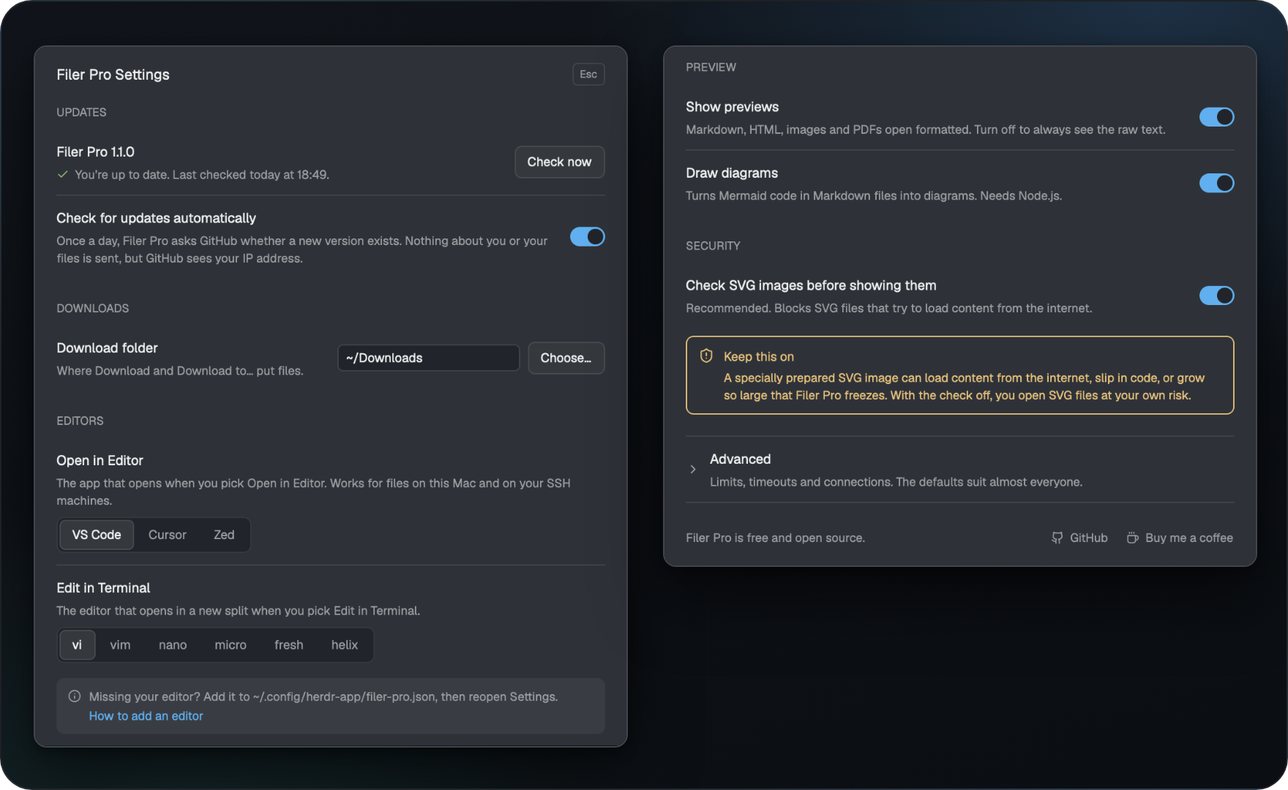
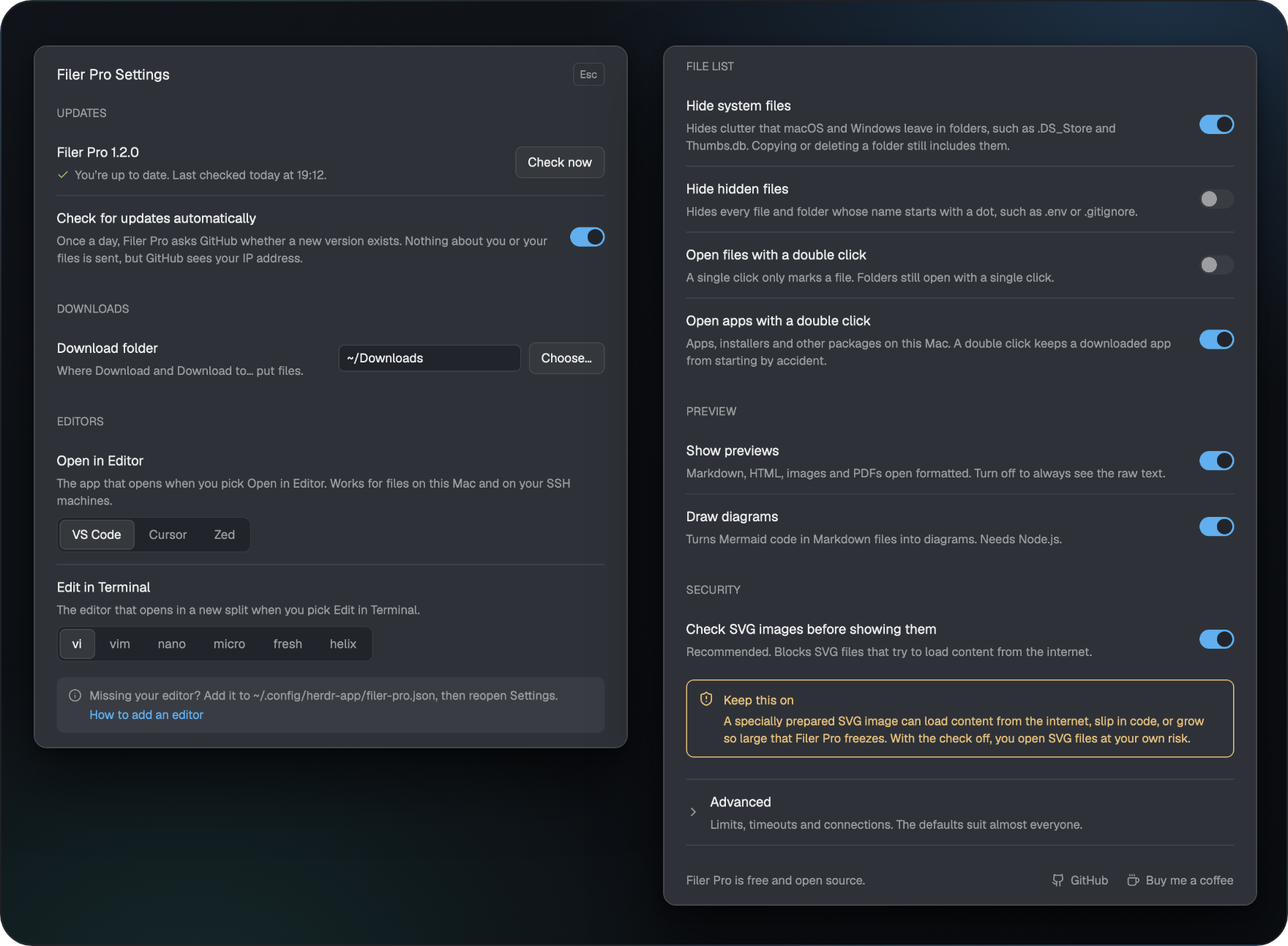
chore: release 1.2.0 (#26)
Bump mods/filer-pro/mod.json and test/clone.test.js to 1.2.0 and move
the "newer release" examples in RECIPE.md to 1.3.0.

README:
- Feature texts for macOS packages (shown as files, double click starts
  them, Show Package Contents), hiding system and hidden files, and the
  one or two click choice.
- Settings dialog paragraph names the four File list switches and the
  Advanced groups File list limits, Preview limits and Transfers &
  connections.
- Settings table in dialog order with a new "In Settings" column (section
  and label from lib/settings.js), units on every range, and the ssh_*
  rows now say they apply to transfers and previews.
- The SSH note no longer claims the preview copies images with fixed
  defaults; since the SSH settings fix it uses the ssh_* settings too.
- New alt text for the settings image.

RECIPE: File list lists all four switches and the locked Hide system
files switch; the config list names the new switches; the fixed limits
no longer mention a fixed SSH copy for the image cache.

screenshots/settings.png: new card with File list (all four switches),
Preview, Security, the closed Advanced row and the footer; the card is
now 880 x 646.

diff --git a/scripts/screenshots/cards/settings.html b/scripts/screenshots/cards/settings.html
@@ -2,8 +2,9 @@
 <html lang="en"><head><meta charset="utf-8"><title>Settings card</title>
 <link rel="stylesheet" href="card.css">
 <style>
-/* layout: the settings dialog in two parts, top (Updates, Downloads, Editors) left, the rest (Preview, Security) right */
-html, body { width: 880px; height: 540px; }
+/* layout: the settings dialog in two parts, top (Updates, Downloads, Editors) left, the rest (File list, Preview, Security,
+   the closed Advanced row and the footer) right */
+html, body { width: 880px; height: 646px; }
 .shot.cut.dlg { border-color: #42454b; }
 .top { left: 22px; top: 30px; width: 406px; height: 480px; }
 .bottom { left: 452px; top: 30px; width: 406px; }

diff --git a/test/clone.test.js b/test/clone.test.js
@@ -8,7 +8,7 @@ const read = (p) => fs.readFileSync(new URL(`../mods/filer-pro/${p}`, import.met
 test("mod.json keeps place none and its origin, and carries the mod's own version", () => {
   assert.deepEqual(JSON.parse(read("mod.json")), {
     place: "none",
-    version: "1.1.0",
+    version: "1.2.0",
     cloned_from: { name: "files", version: "0.1.12" },
   });
 });

diff --git a/RECIPE.md b/RECIPE.md
@@ -12,7 +12,7 @@ All colors are `theme()` tokens, so the mod follows the person's theme.
 
 **Panel** (block `filer-pro`, first child of `panel` > `panel-body`), top to bottom:
 
-1. **Header**, 42px, `px(14)`, gap 8, `border_b(1)` `t.border`. Left: `←` (20px wide, `t.muted`, only while a file is open), then `Filer Pro` in semibold, then `● 1.2.0 available` in `t.ansi4` (header button style, only when a newer release exists; see Update check). Right-aligned: a 14px file type icon and the open file's relative path (or the shown folder's name), text 12, `t.dim`, truncated. While no file is open, a gear (`settings.svg`, 14px, `t.muted`) in a 24px hit area, radius 6, hover `bg(t.hover)`, tooltip `Settings`, opens the settings dialog. Then the header buttons for an open file: `Source` / `Preview` (names the view you switch to), `Open in browser` (local HTML only), `Previous`, `3 / 12`, `Next` (PDF), and the fullscreen button (13px `maximize.svg`). Each button: `px(7)`, `py(2)`, radius 6, text 11, `t.muted`, hover `bg(t.hover)`.
+1. **Header**, 42px, `px(14)`, gap 8, `border_b(1)` `t.border`. Left: `←` (20px wide, `t.muted`, only while a file is open), then `Filer Pro` in semibold, then `● 1.3.0 available` in `t.ansi4` (header button style, only when a newer release exists; see Update check). Right-aligned: a 14px file type icon and the open file's relative path (or the shown folder's name), text 12, `t.dim`, truncated. While no file is open, a gear (`settings.svg`, 14px, `t.muted`) in a 24px hit area, radius 6, hover `bg(t.hover)`, tooltip `Settings`, opens the settings dialog. Then the header buttons for an open file: `Source` / `Preview` (names the view you switch to), `Open in browser` (local HTML only), `Previous`, `3 / 12`, `Next` (PDF), and the fullscreen button (13px `maximize.svg`). Each button: `px(7)`, `py(2)`, radius 6, text 11, `t.muted`, hover `bg(t.hover)`.
 2. **Tree** (no file open), scrolls, `p(6)`. Rows 28px, radius 7, hover `bg(t.hover)`; the last opened file's row `bg(t.selected)` (hover still wins), left padding `8 + depth * 18`px, gap 7: a 12px chevron (`chevron-right.svg` / `chevron-down.svg`, `t.dim`) for folders or a 12px spacer, a 16px full-color file type icon (Material Icon Theme, light or dark variant from `settings().dark`, open-folder variant when expanded), the name (truncated), and on the right a git mark in text 11: `A` (`t.ansi2`), `M` (`t.blocked`), `D` and `U` (`t.ansi1`). Folders sort first, then by name. In a local tree on macOS a folder ending in `.app`, `.pkg` or `.rtfd` (any letter case, `BUNDLE_EXTENSIONS` in `lib/bundles.js`) is a package: a file row (spacer instead of chevron, the `exe` / `zip` / `word` icon), sorted among the files; while its contents are shown it is a folder row. `.xcodeproj`, `.framework` and other developer packages stay folders. Empty states in text 12 `t.dim`, `p(8)`: `Loading files…`, `No files`, `No folder`, or the error. Over `list_per_folder` entries in a folder (default 500) or `list_total` in total (default 5,000): `File list limited to 500 entries per folder and 5,000 total` with the configured numbers (text 11). Folders deeper than `tree_depth` (default 40) are not descended into.
 3. **Viewer** (file open, in the tree's place; the tree stays mounted at `h(0)`, `p(0)` with one spacer as high as its rows plus 12px, so it keeps its scroll position and `←` returns to the same spot): a read-only editor with syntax colors and soft wrap, a Markdown or HTML text view, an image, or a PDF page. Notes like `Loading file…`, `Loading image…`, `Loading PDF…` in `t.dim`, `p(12)`.
 4. **Transfers bar**, only while jobs exist. `border_t(1)` `t.border`, height = sum of rows + 1, at most 220px, then it scrolls. Each row `px(10)`, `py(6)`, gap 3, oldest first:
@@ -28,7 +28,7 @@ The panel root: `rounded(10)`, `border_1()` `t.border`, `bg(t.background)`, text
 - **Menu**: popup at the pointer, 200px wide, height = 28 per entry + 7 per separator + 12. `p(4)`, `bg(t.background)`, text 13. Entries 28px, `px(10)`, radius 6, hover `bg(t.hover)`; unusable ones `t.dim` without hover. Row menu: `Open`, `Open in Preview`, `Open in Editor`, `Edit in Terminal`, `Show in Finder`, for a package also `Show Package Contents` (`Hide Package Contents` while shown) | `Download`, `Download to…` | `Copy`, `Cut`, `Paste` | `Copy Path`, `Copy Relative Path` | `New Folder…`, `Rename…`, `Delete…` (separators: 1px `t.border`, `my(3)`). Free area menu: `New Folder…`, `Paste` | `Settings…`.
 - **Question dialog**: modal, 440 × 240, `p(16)`, gap 12, `bg(t.background)`, text 13. Semibold title (`Already exists`, `Symlink found!`, `Could not check symlinks`, `Delete file?`, `Delete folder?`, `Another volume`), body in `t.muted`, for delete the path in text 11 `t.dim`, `☐ Apply to all (N)` when more than one item waits, buttons right-aligned: 30px, `px(14)`, radius 6, `border_1()` `t.border`, hover `bg(t.hover)`. The final remote `Delete` is `t.ansi1`.
 - **Name dialog** (`Rename`, `New Folder`): modal, 440 × 220, `p(18)`, gap 10, `bg(t.popover)`. Title 15 semibold with `Esc` (11, `t.dim`) at the right; a 32px input, radius 8, border `t.accent` when focused else `t.input`; a 16px error line in `t.ansi1`; buttons 32px, radius 8: `Cancel` (`bg(t.raised)`), primary (`Rename` / `Create`) `bg(t.solid)` with `t.solid_foreground`, dim and inert when the name is invalid or unchanged.
-- **Settings dialog**: modal, 620 wide, 0.86 of the window high, `bg(t.popover)`, no outer padding. Header `px(24)` `pt(18)` `pb(10)`: `Filer Pro Settings` 15 semibold, at the right an `Esc` badge (11, `t.muted`, border, radius 5). Body scrolls with an always visible `Scrollbar.vertical`, content `px(24)` `pt(4)` `pb(18)`. Section headings in capitals, 12 semibold `t.muted`, `pt(22)` (first 4) `pb(8)`. A row (Herdr's settings row): label 14 `t.foreground`, below it the help line 12.5 with 18px line height in `t.muted` (never beside the label), below that an error in `t.ansi1`; the control on the right; `py(12)`, `border_b(1)` except the last row of a section. Switches are Herdr's toggle (36×20, knob 16, `t.accent` / `t.hover`). Parts in this order: Updates (`Filer Pro <version>` with the status line: `✓ You’re up to date. Last checked today at 09:41.` / `Asking GitHub for the latest version…` / `● Version 1.2.0 is available.` / `Could not reach GitHub. Check your connection and try again.` (`t.ansi1`) / `Not checked yet.`, and on the right `Check now`, a spinning `loader-circle.svg` with `Checking…`, the accent button `What’s new in 1.2.0` with `external-link.svg`, or `Try again`; then the switch `update_check`), Downloads (field 190 wide and `Choose…`), Editors (`Open in Editor` and `Edit in Terminal` as segmented buttons in Herdr's appearancePicker style: shipped names, then valid own names of the config; then an info box `bg(t.hover)` with `info.svg`, `Missing your editor? Add it to <config path>, then reopen Settings.` and the link `How to add an editor` to the README), File list (the switches `double_click_files` and `double_click_apps`, independent, never dimmed), Preview (`preview`, `mermaid`; `mermaid` at opacity 0.45 and not clickable while `preview` is off), Security (`svg_check`, directly below it a box with `shield-exclamation-point.svg`, border and text `t.ansi3` with the title `Keep this on` while on, `t.ansi1` with `The SVG check is off` when off), the Advanced row (chevron right or down, `Limits, timeouts and connections. The defaults suit almost everyone.`, closed at first) with the groups `File list limits`, `Preview limits` (ending with `node_path`, placeholder `Automatic`) and `Transfers & connections` (number fields 84 wide, the unit in a 92 wide column, the help line ends with `Default <n>.`), and the footer `Filer Pro is free and open source.` with the links `GitHub` and `Buy me a coffee` (`github.svg`, `coffee.svg`, `cx.open_url`). Texts, labels and help lines are those of `lib/settings.js`. Fields: border `t.ansi1` when wrong, `t.accent` while focused, else `t.input`. Bottom bar `px(24)` `py(12)` `border_t(1)`: the save error (11.5, `t.ansi1`), `Cancel`, `Save` (primary, dim while the file is broken or saving).
+- **Settings dialog**: modal, 620 wide, 0.86 of the window high, `bg(t.popover)`, no outer padding. Header `px(24)` `pt(18)` `pb(10)`: `Filer Pro Settings` 15 semibold, at the right an `Esc` badge (11, `t.muted`, border, radius 5). Body scrolls with an always visible `Scrollbar.vertical`, content `px(24)` `pt(4)` `pb(18)`. Section headings in capitals, 12 semibold `t.muted`, `pt(22)` (first 4) `pb(8)`. A row (Herdr's settings row): label 14 `t.foreground`, below it the help line 12.5 with 18px line height in `t.muted` (never beside the label), below that an error in `t.ansi1`; the control on the right; `py(12)`, `border_b(1)` except the last row of a section. Switches are Herdr's toggle (36×20, knob 16, `t.accent` / `t.hover`). Parts in this order: Updates (`Filer Pro <version>` with the status line: `✓ You’re up to date. Last checked today at 09:41.` / `Asking GitHub for the latest version…` / `● Version 1.3.0 is available.` / `Could not reach GitHub. Check your connection and try again.` (`t.ansi1`) / `Not checked yet.`, and on the right `Check now`, a spinning `loader-circle.svg` with `Checking…`, the accent button `What’s new in 1.3.0` with `external-link.svg`, or `Try again`; then the switch `update_check`), Downloads (field 190 wide and `Choose…`), Editors (`Open in Editor` and `Edit in Terminal` as segmented buttons in Herdr's appearancePicker style: shipped names, then valid own names of the config; then an info box `bg(t.hover)` with `info.svg`, `Missing your editor? Add it to <config path>, then reopen Settings.` and the link `How to add an editor` to the README), File list (the switches `hide_system_files`, `hide_dotfiles`, `double_click_files` and `double_click_apps`; while `hide_dotfiles` is on, `hide_system_files` shows on at opacity 0.45 and is not clickable, its stored value kept; the two double click switches are independent and never dimmed), Preview (`preview`, `mermaid`; `mermaid` at opacity 0.45 and not clickable while `preview` is off), Security (`svg_check`, directly below it a box with `shield-exclamation-point.svg`, border and text `t.ansi3` with the title `Keep this on` while on, `t.ansi1` with `The SVG check is off` when off), the Advanced row (chevron right or down, `Limits, timeouts and connections. The defaults suit almost everyone.`, closed at first) with the groups `File list limits`, `Preview limits` (ending with `node_path`, placeholder `Automatic`) and `Transfers & connections` (number fields 84 wide, the unit in a 92 wide column, the help line ends with `Default <n>.`), and the footer `Filer Pro is free and open source.` with the links `GitHub` and `Buy me a coffee` (`github.svg`, `coffee.svg`, `cx.open_url`). Texts, labels and help lines are those of `lib/settings.js`. Fields: border `t.ansi1` when wrong, `t.accent` while focused, else `t.input`. Bottom bar `px(24)` `py(12)` `border_t(1)`: the save error (11.5, `t.ansi1`), `Cancel`, `Save` (primary, dim while the file is broken or saving).
 - **Fullscreen**: dialog at 0.86 × 0.9 of the window, a 42px header with icon, path, the same buttons and `✕`, then the same viewer.
 
 ## How it behaves
@@ -47,7 +47,7 @@ The mod shows no agent status (working, blocked, done, idle); it follows only th
 
 ## Built from
 
-Folder `mods/filer-pro/`, `mod.json` `{ "place": "none", "version": "1.1.0" }` (no `focusable`; `version` is the mod's own semver, read at runtime for the update check). No `keys.json`.
+Folder `mods/filer-pro/`, `mod.json` `{ "place": "none", "version": "1.2.0" }` (no `focusable`; `version` is the mod's own semver, read at runtime for the update check). No `keys.json`.
 
 - **One `View`, four roles by props:** no props: the panel; `{ button: true }`: the pill (it also adds `filer-pro` to shared `workspace.panels` with `setShared`, so the shipped `tabs` mod restores the panel per space, then only listens for `reveal`); `{ overlay, view: "menu" | "conflict" | "rename" | "mkdir" | "file" }`: the overlays, opened with `openOverlay({ mod: "filer-pro", ... })`.
 - **Layout blocks it needs** (the person's own layout; shipped layouts are cloned first): in a row `tab-bar` (42px): `{ "id": "filer-pro-button", "type": "block", "content": { "mod": "filer-pro", "props": { "button": true } }, "size": { "px": 96 }, "window_drag": true }`; in `panel` > `panel-body`, first: `{ "id": "filer-pro", "type": "block", "content": { "mod": "filer-pro" }, "size": { "weight": 1 }, "min": 120 }`.
@@ -57,7 +57,7 @@ Folder `mods/filer-pro/`, `mod.json` `{ "place": "none", "version": "1.1.0" }` (
 - **Files:** `main.js`; `ui/` (`bar.js`, `menu.js`, `conflict.js`, `namedialog.js`, `settings.js`); `lib/` (pure logic: jobs, requests, file operations and their shell scripts, names, sizes, clipboard, lease, panels, config, settings, editors, platform); `preview/` (loaded only by `import()`, the removable preview: `index.js`, `prepare.js`, `strip.js`, `images.js`, `pdf.js`, `mermaid.js`, `diagrams.js`, `mermaid.bundle.js`); `bin/transfer.sh` (POSIX sh); `bin/render-mermaid.mjs` (Node).
 - **Programs:** `sh`, `ssh`, `scp`, `cp`, `mv`, `git status --porcelain=v1 -z`, `open`, `xattr`, `pbcopy`, `/usr/bin/trash`, `osascript -l JavaScript` (PDFKit, pages up to 2048px), `node` (from the login shell, `/opt/homebrew/bin/node` or `/usr/local/bin/node`), the configured editors (`code`, `cursor`, `zed`, `vi`, ... on demand only).
 - **Art:** `folder.svg`, `file.svg`, `chevron-right.svg`, `chevron-down.svg`, `maximize.svg` (Lucide), `icons/` with 1,184 Material Icon Theme SVGs mapped by `icons.js` and `lib/icons.js`.
-- **Config:** `appHome()/filer-pro.json` with `download_folder` (default `~/Downloads`), `preview`, `mermaid`, `perf`, `update_check` (default `true`), the numbers, `node_path` and `svg_check` of `lib/settings.js` (see Settings), `terminal_editor` (default `vi`; shipped `vi`, `vim`, `nano`, `micro`, `fresh`, `helix` = `hx`), `terminal_editors` (`[{ name, command }]`, no `{path}`), `gui_editor` (default `VS Code`; shipped `VS Code`, `Cursor`, `Zed`), `gui_editors` (`[{ name, local, remote? }]`, each with `{path}` or `{path_uri}`, `local` without `{target}`). Unknown names fall back to the default; a broken own entry is dropped alone; the first of a name wins; an own entry replaces a shipped one of the same name.
+- **Config:** `appHome()/filer-pro.json` with `download_folder` (default `~/Downloads`), `preview`, `mermaid`, `perf`, `update_check` (default `true`), the switches `hide_system_files`, `hide_dotfiles`, `double_click_files`, `double_click_apps`, the numbers, `node_path` and `svg_check` of `lib/settings.js` (see Settings), `terminal_editor` (default `vi`; shipped `vi`, `vim`, `nano`, `micro`, `fresh`, `helix` = `hx`), `terminal_editors` (`[{ name, command }]`, no `{path}`), `gui_editor` (default `VS Code`; shipped `VS Code`, `Cursor`, `Zed`), `gui_editors` (`[{ name, local, remote? }]`, each with `{path}` or `{path_uri}`, `local` without `{target}`). Unknown names fall back to the default; a broken own entry is dropped alone; the first of a name wins; an own entry replaces a shipped one of the same name.
 - **Update check** (`lib/update.js`): the lease holder runs a pass when it takes the lease and then at most hourly, in `cx.spawn`. A pass reads the config fresh (`update_check: false`: no request, shared `filer-pro.update` set to `null`) and `appHome()/mods/filer-pro/mod.json`, and only when the last check is 24h old (or the installed version changed, or the clock moved back) calls `fetch` on `https://api.github.com/repos/Srv-02/herdr-filerpro/releases/latest` with `Accept: application/vnd.github+json` and a `User-Agent` (GitHub refuses requests without one), 30s timeout. It stores `{ at, local, latest }` in shared `filer-pro.update`; no release yet (404), rate limit, offline, bad JSON or a tag that is not semver count as a check (no retry before the next day) and keep the last known `latest`. Every panel copy compares `latest` (leading `v` stripped, semver precedence, pre-releases below their release) with its own `mod.json` version and, only when newer and the live config has `update_check` not false (the header ignores the stored result otherwise, so turning it off acts within the live-reload tick), shows `● <version> available` after the title (text 11, `t.ansi4`, header button style); a click calls `cx.open_url` on `https://github.com/Srv-02/herdr-filerpro/releases/tag/<tag>`, built from the tag, never from the response. After `update_check` is turned back on, the first check waits for the next hourly pass (up to one hour; the gate is not reset on a config change, deliberately, to keep the once-per-hour and lease logic untouched). The dialog's `Check now` sends the same request at once from the dialog's copy (`fetchRelease`, which tells a 404, no release yet, from a failed request), also while `update_check` is false; the answer shows in the dialog, and only while `update_check` is on it is written to shared `filer-pro.update` as `{ at, local, latest }` (a failure keeps the last known release). No download, no auto update.
 - **Settings** (`lib/settings.js`, `ui/settings.js`): one schema of every dialog key with kind, default, range, label, help line, section and unit (`perf` and the editor lists are config file only). `loadConfig` reads the numbers through it (wrong type or fraction: default; out of range: clamped). The dialog opens from the header gear or the free-area menu: the opener reads the file, `loadConfig` and the installed version, stores `{ config, raw, broken, version, home, configPath }` in shared `filer-pro.settings`, then `openOverlay({ mod: "filer-pro", props: { view: "settings" }, kind: "dialog", modal: true, width: 620, height: 0.86 })`; the overlay's `init` creates every `InputState` from that snapshot. Typing does not redraw the dialog (an `Input` draws its own text); `cx.notify()` only when a message goes away, on focus and blur (focus ring, the field is checked on blur) and on clicks. Save checks every field (whole numbers in range, a non-empty download folder, an absolute or empty `node_path`; a wrong field in Advanced opens it), writes only the keys that differ from the values shown at open, by read-modify-write: read, parse (not a JSON object: refuse), merge, `writeTextFile(path, text, expected)` with the text read (`null` when missing: create only); a throw is retried (3 tries) only when a new read shows another text. Then it sets shared `filer-pro.config` `{ at }`; every panel copy checks it every 250ms and reads the config again, then reloads the tree. The preview limits travel per call (the loaders live per view): `prepareAsync(text, { kind, mermaid, maxChars, maxDiagrams })`, images `load({ …, maxImage, cacheLimit, svgCheck })`, PDFs `load({ …, maxLocal, maxRemote, cacheLimit })`, diagrams `renderAll(parts, theme, current, onChange, { maxDiagrams, maxChars, node })`; page turns and diagrams use the config the open file was read with. `svg_check: false` skips `svgSafe` and the 64 KiB scan limit; the size still comes from the root's attributes or viewBox and the 100-megapixel limit holds on that size.
 - **Data:** `data/filer-pro/images/` (`image_cache_mb`, default 50MB), `data/filer-pro/loads/`, `data/filer-pro/diagrams/`, `data/filer-pro/perf.jsonl`.
@@ -73,7 +73,7 @@ Folder `mods/filer-pro/`, `mod.json` `{ "place": "none", "version": "1.1.0" }` (
 - Removing a whole tree with `rm -r` on a machine must refuse mounted file systems below the target (read `/proc/self/mountinfo` or `mount`).
 - During a lease handover two copies can briefly both hold it, so a day can see two update requests.
 - Shared values cannot be deleted, only set to `null`. Editing `shared.json` by hand while Herdr runs is overwritten.
-- Limits (defaults, all but the fixed ones in the settings): 500 entries per folder, 5,000 in the tree, depth 40; preview 200,000 characters, source 400,000; 20 diagrams per document, 20,000 characters each; images 20MB; image cache 50MB. Fixed: 30s per render, 100 megapixels per image, the image cache's own SSH copy with the default options.
+- Limits (defaults, all but the fixed ones in the settings): 500 entries per folder, 5,000 in the tree, depth 40; preview 200,000 characters, source 400,000; 20 diagrams per document, 20,000 characters each; images 20MB; image cache 50MB. Fixed: 30s per render, 100 megapixels per image, 30s for the preview's copy of an image or PDF.
 - Assumes macOS as the local side (Finder, Preview.app, Trash, PDFKit) and SSH machines from `hc machine ls`; machines connected via a command are refused.
 
 ## Done when

diff --git a/README.md b/README.md
@@ -26,7 +26,7 @@ Then click `Filer Pro` in the tab bar. To install by hand, see [Manual install](
 
 ![File tree with git marks and the context menu open](screenshots/browse.png)
 
-The tree shows the folder of the focused terminal, locally or on its machine. Right click for open, edit, download, copy, paste, rename and delete.
+The tree shows the folder of the focused terminal, locally or on its machine. Right click for open, edit, download, copy, paste, rename and delete. Apps and other macOS packages show as files: a double click starts them, and Show Package Contents looks inside. System files like `.DS_Store` stay out of the way, and hidden files can go too.
 
 ### Transfers you can trust
 
@@ -56,9 +56,9 @@ Right click a file to open it in VS Code, Cursor or Zed, or to edit it in vi, na
 
 ### Settings and updates
 
-![The settings dialog with Updates, Editors, Preview and Security](screenshots/settings.png)
+![The settings dialog with Updates, Downloads, Editors, File list, Preview, Security and the closed Advanced part](screenshots/settings.png)
 
-The gear in the panel header opens every setting, and changes apply without a restart. Once a day Filer Pro asks GitHub for a new release and shows a small hint in the header when there is one; one switch turns that off.
+The gear in the panel header opens every setting, and changes apply without a restart. Choose whether files and apps open with one click or two, and what the tree hides. Once a day Filer Pro asks GitHub for a new release and shows a small hint in the header when there is one; one switch turns that off.
 
 ## Details
 
@@ -106,45 +106,45 @@ The gear in the panel header opens every setting, and changes apply without a re
 
 #### Settings dialog
 
-Most settings below can also be changed in **Settings**: the gear in the panel header while no file is open, or right click the free area below the tree, `Settings…`. The dialog shows, in this order: **Updates** (the installed version, **Check now**, and the switch for the automatic check), **Downloads** (the folder, with **Choose…** for the system folder picker), **Editors** (pick the GUI and the terminal editor; own editors are added in the config file, see [Editors](#editors), and appear here after reopening Settings), **File list** (hide system files and hidden files, open files and apps with a double click), **Preview**, **Security** (the SVG check, see below) and **Advanced**, closed at first, with every limit, timeout and connection setting. `perf` and the own editor lists (`terminal_editors`, `gui_editors`) are config file only.
+Most settings below can also be changed in **Settings**: the gear in the panel header while no file is open, or right click the free area below the tree, `Settings…`. The dialog shows, in this order: **Updates** (the installed version, **Check now**, and the switch for the automatic check), **Downloads** (the folder, with **Choose…** for the system folder picker), **Editors** (pick the GUI and the terminal editor; own editors are added in the config file, see [Editors](#editors), and appear here after reopening Settings), **File list** (the switches **Hide system files**, **Hide hidden files**, **Open files with a double click** and **Open apps with a double click**; while hidden files are hidden, **Hide system files** shows on and cannot be switched), **Preview**, **Security** (the SVG check, see below) and **Advanced**, closed at first, with every limit, timeout and connection setting in three groups: **File list limits**, **Preview limits** and **Transfers & connections**. `perf` and the own editor lists (`terminal_editors`, `gui_editors`) are config file only.
 
 Each field is checked when you leave it and again on Save; nothing is written until every field is valid, and a wrong field in Advanced opens it. Saving changes only the keys you edited: it reads the file again, applies your changes, and writes only if nobody changed the file in between (else it reads it again and retries). Keys it does not know stay as they are. A file that is not valid JSON is never overwritten; fix or remove it first. Changes apply within a second, without a restart (only `perf` needs one). What turning `update_check` off or on again does is described in [Updates](#updates).
 
 A missing key means its default. In the file, a number of the wrong type (or with a fraction) means the default, a whole number out of range the nearest bound.
 
-| Key | Default | Range | What it does |
-|---|---|---|---|
-| `download_folder` | `~/Downloads` | not empty | Where downloads go |
-| `preview` | `true` | `true` / `false` | Preview Markdown, HTML, images and PDFs |
-| `mermaid` | `true` | `true` / `false` | Draw Mermaid diagrams |
-| `update_check` | `true` | `true` / `false` | Daily update check |
-| `perf` | `false` | `true` / `false` | Render timings in `perf.jsonl` (takes effect after a restart; config file only) |
-| `terminal_editor`, `terminal_editors`, `gui_editor`, `gui_editors` | see [Editors](#editors) | | Edit in Terminal, Open in Editor (the lists are config file only) |
-| `hide_system_files` | `true` | `true` / `false` | Hide OS clutter: `.DS_Store`, `._*`, `.Spotlight-V100`, `.Trashes`, `.fseventsd`, `.TemporaryItems`, `.DocumentRevisions-V100`, `.apdisk`, `Icon\r`, `Thumbs.db`, `desktop.ini` (the last two in any case). Hidden entries do not count against the list limits; copy, move and delete of a folder still include them |
-| `hide_dotfiles` | `false` | `true` / `false` | Hide every file and folder whose name starts with a dot; while on, system files are hidden too, whatever `hide_system_files` says |
-| `double_click_files` | `false` | `true` / `false` | Open a file with a double click; a single click then only marks it. Folders always open with a single click |
-| `double_click_apps` | `true` | `true` / `false` | Start a local macOS package (`.app`, `.pkg`, `.rtfd`) with a double click; a single click then only marks it. Off: a single click starts it |
-| `list_per_folder` | `500` | 10–10,000 | Entries shown per folder |
-| `list_total` | `5000` | 100–20,000 | Entries shown in the whole tree |
-| `tree_depth` | `40` | 1–200 | Deepest folder level shown |
-| `refresh_seconds` | `10` | 2–3,600 | Periodic reload of the tree (it also reloads on file changes and after actions) |
-| `source_max_chars` | `400000` | 10,000–5,000,000 | Characters of the source view, the rest is cut |
-| `preview_max_chars` | `200000` | 10,000–2,000,000 | Characters of a Markdown or HTML preview |
-| `image_max_mb` | `20` | 1–500 | Larger images show a Load button (SVGs: no preview) |
-| `image_cache_mb` | `50` | 10–5,000 | Size of the image and PDF page cache |
-| `pdf_local_max_mb` | `100` | 1–2,000 | Larger local PDFs show a Load button |
-| `pdf_remote_max_mb` | `20` | 1–500 | Larger PDFs on a machine show a Load button |
-| `max_diagrams` | `20` | 1–100 | Mermaid diagrams drawn per file |
-| `max_diagram_chars` | `20000` | 1,000–200,000 | Characters per Mermaid diagram |
-| `node_path` | `""` | empty or an absolute path | Node for Mermaid; empty tries `node`, `/opt/homebrew/bin/node`, `/usr/local/bin/node` |
-| `ssh_connect_timeout` | `15` | 1–300 s | SSH `ConnectTimeout` for transfers |
-| `ssh_alive_interval` | `15` | 1–300 s | SSH `ServerAliveInterval` for transfers |
-| `ssh_alive_count` | `4` | 1–100 | SSH `ServerAliveCountMax` for transfers |
-| `stall_seconds` | `120` | 10–3,600 | A transfer whose temp file does not grow this long is stopped as stalled |
-| `keep_done_seconds` | `10` | 0–3,600 | How long finished transfers stay in the transfers bar |
-| `svg_check` | `true` | `true` / `false` | Check SVG files before drawing them (see below) |
+| Key | In Settings | Default | Range | What it does |
+|---|---|---|---|---|
+| `update_check` | Updates: Check for updates automatically | `true` | `true` / `false` | Daily update check |
+| `download_folder` | Downloads: Download folder | `~/Downloads` | not empty | Where downloads go |
+| `terminal_editor`, `terminal_editors`, `gui_editor`, `gui_editors` | Editors: Open in Editor, Edit in Terminal (the lists: config file only) | see [Editors](#editors) | | Edit in Terminal, Open in Editor |
+| `hide_system_files` | File list: Hide system files | `true` | `true` / `false` | Hide OS clutter: `.DS_Store`, `._*`, `.Spotlight-V100`, `.Trashes`, `.fseventsd`, `.TemporaryItems`, `.DocumentRevisions-V100`, `.apdisk`, `Icon\r`, `Thumbs.db`, `desktop.ini` (the last two in any case). Hidden entries do not count against the list limits; copy, move and delete of a folder still include them |
+| `hide_dotfiles` | File list: Hide hidden files | `false` | `true` / `false` | Hide every file and folder whose name starts with a dot; while on, system files are hidden too, whatever `hide_system_files` says |
+| `double_click_files` | File list: Open files with a double click | `false` | `true` / `false` | Open a file with a double click; a single click then only marks it. Folders always open with a single click |
+| `double_click_apps` | File list: Open apps with a double click | `true` | `true` / `false` | Start a local macOS package (`.app`, `.pkg`, `.rtfd`) with a double click; a single click then only marks it. Off: a single click starts it |
+| `preview` | Preview: Show previews | `true` | `true` / `false` | Preview Markdown, HTML, images and PDFs |
+| `mermaid` | Preview: Draw diagrams | `true` | `true` / `false` | Draw Mermaid diagrams |
+| `svg_check` | Security: Check SVG images before showing them | `true` | `true` / `false` | Check SVG files before drawing them (see below) |
+| `list_per_folder` | Advanced, File list limits: Files shown per folder | `500` | 10–10,000 | Entries shown per folder |
+| `list_total` | Advanced, File list limits: Files shown in total | `5000` | 100–20,000 | Entries shown in the whole tree |
+| `tree_depth` | Advanced, File list limits: Deepest folder level | `40` | 1–200 | Deepest folder level shown |
+| `refresh_seconds` | Advanced, File list limits: Look for changes every | `10` | 2–3,600 s | Periodic reload of the tree (it also reloads on file changes and after actions) |
+| `preview_max_chars` | Advanced, Preview limits: Longest formatted preview | `200000` | 10,000–2,000,000 | Characters of a Markdown or HTML preview |
+| `source_max_chars` | Advanced, Preview limits: Longest plain text view | `400000` | 10,000–5,000,000 | Characters of the source view, the rest is cut |
+| `image_max_mb` | Advanced, Preview limits: Show images right away up to | `20` | 1–500 MB | Larger images show a Load button (SVGs: no preview) |
+| `pdf_local_max_mb` | Advanced, Preview limits: Show PDFs on this Mac right away up to | `100` | 1–2,000 MB | Larger local PDFs show a Load button |
+| `pdf_remote_max_mb` | Advanced, Preview limits: Show PDFs on SSH machines right away up to | `20` | 1–500 MB | Larger PDFs on a machine show a Load button |
+| `image_cache_mb` | Advanced, Preview limits: Disk space for the image cache | `50` | 10–5,000 MB | Size of the image and PDF page cache |
+| `max_diagrams` | Advanced, Preview limits: Diagrams per file | `20` | 1–100 | Mermaid diagrams drawn per file |
+| `max_diagram_chars` | Advanced, Preview limits: Largest diagram | `20000` | 1,000–200,000 | Characters per Mermaid diagram |
+| `node_path` | Advanced, Preview limits: Node.js for diagrams | `""` | empty or an absolute path | Node for Mermaid; empty tries `node`, `/opt/homebrew/bin/node`, `/usr/local/bin/node` |
+| `ssh_connect_timeout` | Advanced, Transfers & connections: Give up connecting after | `15` | 1–300 s | SSH `ConnectTimeout` for transfers and previews |
+| `ssh_alive_interval` | Advanced, Transfers & connections: Check the connection every | `15` | 1–300 s | SSH `ServerAliveInterval` for transfers and previews |
+| `ssh_alive_count` | Advanced, Transfers & connections: Drop the connection after | `4` | 1–100 | SSH `ServerAliveCountMax` for transfers and previews |
+| `stall_seconds` | Advanced, Transfers & connections: Stop a stuck transfer after | `120` | 10–3,600 s | A transfer whose temp file does not grow this long is stopped as stalled |
+| `keep_done_seconds` | Advanced, Transfers & connections: Keep finished transfers visible for | `10` | 0–3,600 s | How long finished transfers stay in the transfers bar |
+| `perf` | config file only | `false` | `true` / `false` | Render timings in `perf.jsonl` (takes effect after a restart) |
 
-The SSH settings apply to transfers (download, upload, copy on a machine, Load). The preview's image cache copies small files over SSH with the fixed defaults (that copy has a 30 s limit anyway). Fixed and not configurable: the 100-megapixel limit for images, the 30 s limit per Mermaid render, and internal timers.
+The SSH settings apply to transfers (download, upload, copy on a machine, Load) and to the preview's copy of images and PDFs from a machine (that copy also stops after 30 s). Fixed and not configurable: the 100-megapixel limit for images, the 30 s limit per Mermaid render, and internal timers.
 
 **SVG check (`svg_check`).** This is a security boundary. With the check on (default), an SVG is drawn only if it cannot set its own size through CSS or load more than itself (no external style sheets, entities, `foreignObject`, XHTML, or CSS that sets a size or pulls in a URL), and only up to the first 64 KiB, which are checked. Turned off, every SVG with a readable size is drawn: a crafted SVG can then load external content or inject code, and can set its own size in CSS past the 100-megapixel limit. Turning it off is at your own risk.
 

diff --git a/scripts/screenshots/README.md b/scripts/screenshots/README.md
@@ -41,7 +41,7 @@ Crops (`cards/*.png`) and the browser profile are ignored by git: they hold wind
    ```sh
    scripts/screenshots/render.sh scripts/screenshots/cards/edit-terminal.html screenshots/edit-terminal.png 880 651
    scripts/screenshots/render.sh scripts/screenshots/cards/editors.html screenshots/editors.png 880 660
-   scripts/screenshots/render.sh scripts/screenshots/cards/settings.html screenshots/settings.png 880 540
+   scripts/screenshots/render.sh scripts/screenshots/cards/settings.html screenshots/settings.png 880 646
    ```
 
    A panel cut off at the bottom gets the class `cut`, which draws its border again. A crop wider than the card (as in `edit-terminal.html`) is scaled to the card width; end it between two text lines. Open the result and check it once more before you commit it.
